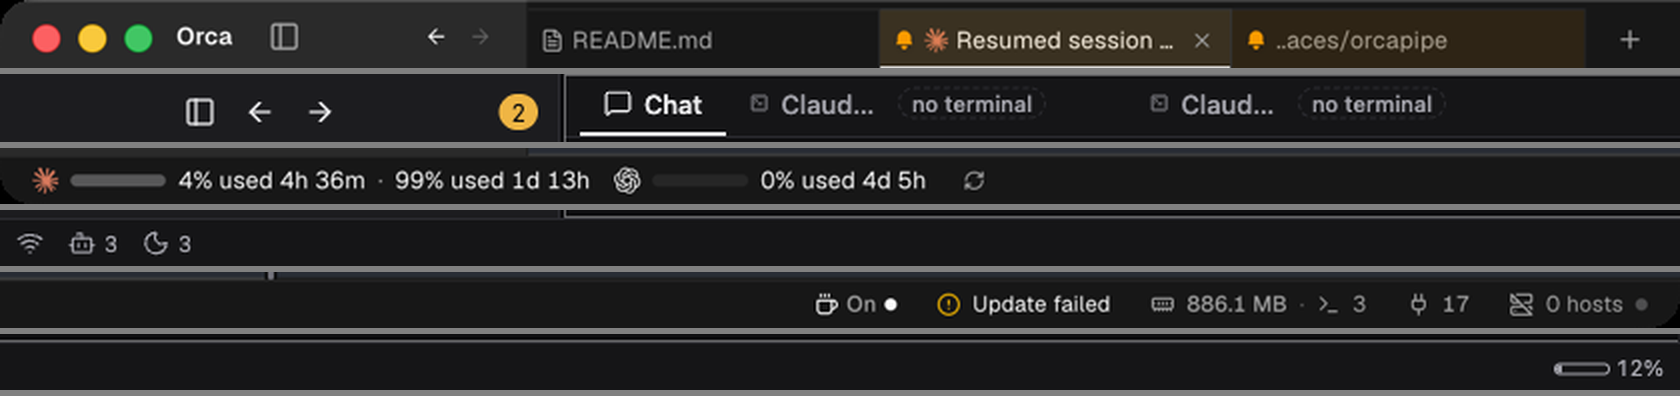
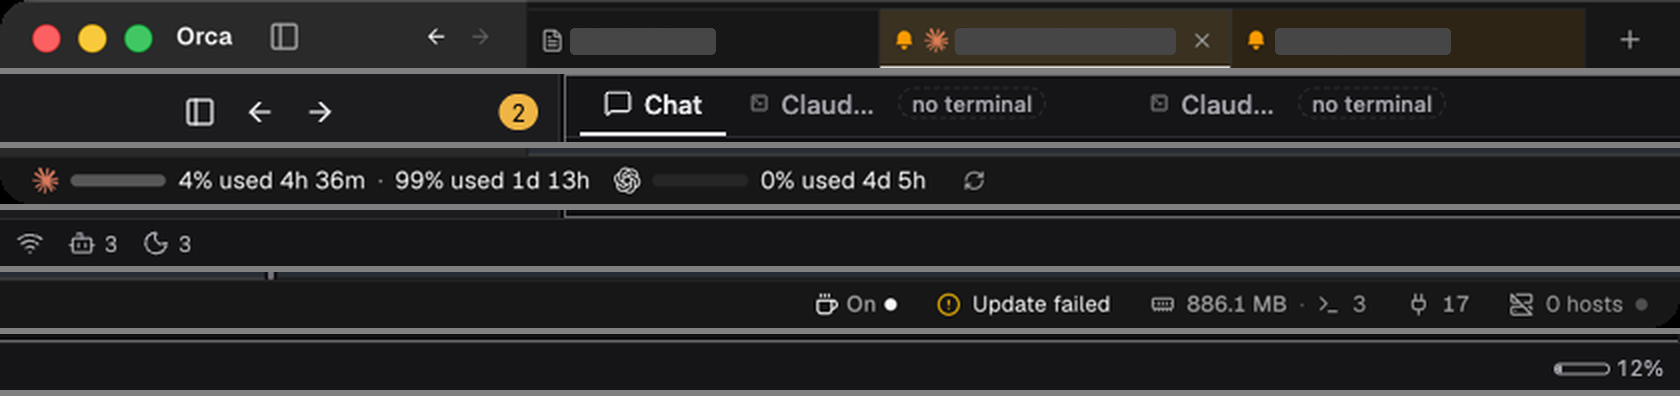
Visual proposal: drop orca-chrome.png, mask Orca names and tab titles and the inbox text, generic mock terminal, doc trimmed

Changed region(s): [[0.5571, 0.0606, 0.7119, 0.1515], [0.7429, 0.0606, 0.8667, 0.1515], [0.3405, 0.0606, 0.4333, 0.1515]]

diff --git a/docs/img/pc-visual/mock-main.html b/docs/img/pc-visual/mock-main.html
@@ -79,7 +79,7 @@ footer .bar u{position:absolute;inset:0 auto 0 0;background:var(--ok)}
       <div class="msg">Done as story T4153 for handline.pc: children T4151 and T4115 merge into it after PASS.</div>
       <div class="compose">Message pc.auditor…</div>
     </div>
-    <div class="pane term"># Runner Registration<br><br>Enter the name of the runner group…<br><br><span class="t">√ Runner successfully added</span><br><br>ci@runner:~/runner$ ls<br>bin &nbsp; config.sh &nbsp; env.sh &nbsp; run.sh</div>
+    <div class="pane term">$ ls<br>build &nbsp; src &nbsp; package.json &nbsp; README.md<br><br><span class="t">✓ 12 tests passed</span></div>
   </div>
 </main>
 <footer>

diff --git a/docs/pc-visual-proposal.md b/docs/pc-visual-proposal.md
@@ -2,7 +2,7 @@
 
 Story 10-4 (T4149, task T4150). Research and a proposal only; nothing is built. The question: can our PC app be as clean as Orca?
 
-Method. Orca 1.4.221 (the installed app) and the PC app (`apps/web` in `apps/electron`, main @67f4d5063, scratch home and test daemon, never the live daemon) were captured at the same size, 1673 x 1050 points. The scratch daemon is nearly empty (three agents, one task), so the screens show structure, not a busy day. The Orca pictures are cropped to its chrome (sidebar, tab strip, status bar); its content panes are not shown.
+Method. Orca 1.4.221 (the installed app) and the PC app (`apps/web` in `apps/electron`, main @67f4d5063, scratch home and test daemon, never the live daemon) were captured at the same size, 1673 x 1050 points. The scratch daemon is nearly empty (three agents, one task), so the screens show structure, not a busy day. The Orca pictures show only its chrome (sidebar, tab strip, status bar), with its project, branch and tab names masked.
 
 ## 1. Side by side
 
@@ -14,19 +14,19 @@ Top tab strip and bottom status bar (each pair: Orca above, ours below; left and
 
 ![Tab strip and status bar](img/pc-visual/cmp-bars.png)
 
-Our screens at the same size: [Inbox](img/pc-visual/01-home.png), [Tasks](img/pc-visual/02-tasks.png), [Task detail](img/pc-visual/03-task-detail.png), [Team](img/pc-visual/04-team.png), [Worktrees](img/pc-visual/05-worktrees.png), [Accounts](img/pc-visual/06-accounts.png), [Stats](img/pc-visual/07-stats.png), [agent Chat](img/pc-visual/08-chat.png). Orca's workspace without its content: [orca-chrome.png](img/pc-visual/orca-chrome.png).
+Our screens at the same size: [Inbox](img/pc-visual/01-home.png), [Tasks](img/pc-visual/02-tasks.png), [Task detail](img/pc-visual/03-task-detail.png), [Team](img/pc-visual/04-team.png), [Worktrees](img/pc-visual/05-worktrees.png), [Accounts](img/pc-visual/06-accounts.png), [Stats](img/pc-visual/07-stats.png), [agent Chat](img/pc-visual/08-chat.png).
 
 ## 2. Differences, ordered by how much each changes the feel
 
-1. **One sidebar that is the whole map (layout).** Orca: Search, Tasks, Automations, then Projects; under each project its worktrees as cards (name, branch, one status line, age), and the sessions under a worktree. You never leave it to find work. Ours: seven nav rows (Inbox, Tasks, Team, Worktrees, Accounts, Pair a phone, Stats) above a flat agent list; worktrees are a separate page and an agent row shows no project, branch or age. The nav block alone is 190 px of the 1050 before any work appears.
-2. **Workspaces instead of pages (layout).** Orca has one surface: the tab strip of the chosen worktree (chat, files, terminals, diff) with split panes. Ours is a set of pages (Team, Worktrees, Accounts, Stats, Tasks), each with a page title and its own box, and the agent view is a tab strip inside the main area (the capture shows "Claude Code, no terminal" twice, since fixed in T4162). Moving between "an agent" and "its worktree" and "its tasks" is three screens in ours, one in Orca.
-3. **The bottom bar says something (layout, density).** Orca: per-account usage with a bar, percent used and time to reset; a keep-awake switch; update state; memory; terminal and port counts; remote hosts. Ours: link icon, agent total, per-state counts (which repeat the sidebar) and one unlabeled percentage. Details in section 5.
-4. **Density and quiet rows (density).** Orca rows carry one dot, a name in medium weight and one grey second line. Ours carry up to six marks per agent row (state glyph, inbox count, task count, two gauges, a menu) and the name is bold. Orca's rows are about 60 px for a worktree card with two lines, ours 32 px for one line carrying more symbols. More symbols in less space is what reads as busy.
-5. **Boxes inside boxes (borders).** Ours: the Tasks table sits in a bordered panel next to a bordered detail panel; Team is a row of bordered cards; Inbox rows are bordered cards; the composer is a bordered box inside a column. Orca separates areas with one 1 px hairline (white at 7% alpha) and fills only the selected row. Section 4 gives the rule.
-6. **Chrome merged with the title bar (layout).** Orca's tab strip is the window's top bar (traffic lights, sidebar toggle, back/forward, tabs, +). Ours has a 38 px drag strip with the toggle and arrows over the sidebar, and a second strip for tabs: two bars where one would do.
-7. **Colour (colour).** Both are near-black neutral. Orca uses one warm accent, amber, for "needs you" (the bell on a worktree, the tab tint) and a brand glyph for the agent; status dots are small and few. Ours already has Okabe-Ito state hues (blue, amber, orange, green) next to glyphs; they are fine, but they appear on many rows at once and the amber badge sits in two places (the corner badge and the pills). Our tokens are close to Orca's (section 4), so the change is fewer colours at a time, not a new palette.
+1. **One sidebar that is the whole map (layout).** Orca: Search, Tasks, Automations, then Projects; under each project its worktrees as cards (name, branch, status line, age) and the sessions under them, so you never leave it to find work. Ours: seven nav rows (190 px of the 1050) above a flat agent list; worktrees are a separate page and an agent row shows no project, branch or age.
+2. **Workspaces instead of pages (layout).** Orca has one surface: the chosen worktree's tab strip (chat, files, terminals, diff) with split panes. Ours is a set of pages, each with a title and its own box; "an agent", "its worktree" and "its tasks" are three screens in ours, one in Orca.
+3. **The bottom bar says something (layout, density).** Orca's carries usage per account, update state, memory, ports and hosts; ours has agent counts that repeat the sidebar and one unlabeled percentage (section 5).
+4. **Density and quiet rows (density).** Orca rows carry one dot, a medium-weight name and one grey second line. Ours carry up to six marks per agent row (state glyph, inbox count, task count, two gauges, a menu) with a bold name. More symbols in less space reads as busy.
+5. **Boxes inside boxes (borders).** Ours: the Tasks table and its detail each sit in a bordered panel, Team is a row of bordered cards, Inbox rows and the composer are bordered. Orca separates areas with one 1 px hairline and fills only the selected row (rule in section 4).
+6. **Chrome merged with the title bar (layout).** Orca's tab strip is the window's top bar. Ours has a 38 px drag strip over the sidebar and a second strip for tabs: two bars where one would do.
+7. **Colour (colour).** Both are near-black neutral. Orca uses one warm accent, amber, for "needs you" and few small status dots. Our Okabe-Ito state hues are fine but appear on many rows at once, and amber sits in two places (corner badge and pills). The change is fewer colours at a time, not a new palette.
 8. **Type (type).** Orca: Geist, 13 px body, 12 px and 11 px for second lines, names at weight 500, monospace only for terminals and ids. Ours: Inter at the same sizes, names 500 in the token but several screens render them heavier, and monospace is used for times and owners in table rows. No size change is needed; weight and where mono is used.
-9. **Icons (icons).** Both use thin outline icons at 14 to 16 px. Orca uses few and puts a label next to each; ours has icon-only controls in chat and row headers that need a tooltip to read.
+9. **Icons (icons).** Both use thin outline icons; Orca labels each, ours has icon-only controls in chat and row headers that need a tooltip.
 10. **Empty states (empty states).** Orca: the sidebar holds the next step (Add project, +). Ours: "Pick an agent / Choose one in the list", "No accounts configured.", "No agents in the team" with no action beside them (screens 08, 04 and 06).
 
 ## 3. Orca's licence: what we may take
@@ -38,7 +38,7 @@ MIT lets us copy, modify and ship, on the one condition that the copyright and p
 - **Take with the notice:** component code and CSS (sidebar and worktree card, tab strip, status-bar cells, split-pane layout). Put the notice in a `THIRD_PARTY_NOTICES` file shipped with the app and mark copied files with a header comment.
 - **Take freely (ideas, not code):** the layout, the order of information, the row anatomy, the spacing scale and the colour values. Colour and size numbers are not copyrightable and Orca's neutrals are close to the stock shadcn/ui ones (also MIT).
 - **Not covered by this licence:** the Orca name and logo, and the Geist font (SIL Open Font License from Vercel; it can be bundled, with its licence text). We should keep our own mark and Inter, or add Geist deliberately.
-- **Recommendation:** write our own components to the proposal below and copy code only where it saves real work (split panes are the likely case), each with the notice. Our stack (React, Tailwind) is close enough that the cost is low either way.
+- **Recommendation:** write our own components to section 4 and copy code (with the notice) only where it saves real work, likely split panes.
 
 ## 4. Proposed style
 
@@ -80,9 +80,7 @@ The mock moves Worktrees and Accounts out of the nav. Accounts becomes part of S
 
 ## 5. The bottom status bar
 
-What Orca shows, left to right: per account, a provider mark, a usage bar, "N% used" and time to reset; a refresh button; a keep-awake switch ("On"); update state ("Update failed" in a warning colour); memory in MB with terminal count; open ports; remote hosts. Everything is a labeled cell with a tooltip, and warnings use colour.
-
-What ours shows: daemon link (icon only), agents total, agents per state (3, 3 in the scratch run), and the usage gauge with one unlabeled percentage (12%). The agent counts repeat the sidebar and the percentage has no name.
+Orca's bar, left to right: per account a provider mark, usage bar, "N% used" and time to reset; refresh; keep-awake switch; update state (warning colour on failure); memory with terminal count; ports; remote hosts. Every cell is labeled and has a tooltip. Ours has the daemon link icon, the agent total and per-state counts (repeating the sidebar) and one unlabeled percentage.
 
 Proposed set (how roomy or short usage is overall, and what the system is doing), left group usage, right group system:
 
@@ -96,16 +94,15 @@ Proposed set (how roomy or short usage is overall, and what the system is doing)
 | Update | `update ok` or `update failed` | amber on failure, as Orca |
 | Memory | `886 MB` | the daemon's, optional |
 
-Removed: the agent total and the per-state counts. Agents are already visible in the sidebar.
+Removed: the agent total and per-state counts.
 
 Open items that need a daemon method, not a style: a usage runway figure (reset time and burn rate per account) and a queue and blocked count. Disk free and update state exist today as inbox notices.
 
 ## 6. What to decide
 
-1. Take the style table in section 4 (mostly a re-tune of existing tokens).
-2. Take the sidebar structure of section 2, item 1, and with it moving Worktrees and Accounts out of the nav.
+1. Take the style table in section 4 (a re-tune of existing tokens).
+2. Take the sidebar structure of section 2, item 1, and move Worktrees and Accounts out of the nav.
 3. Take the status-bar set of section 5.
-4. Copy Orca code (with the notice) or write our own? Recommended: own, copy only split panes.
-5. Keep Inter or move to Geist.
+4. Copy Orca code (recommended: own, copy only split panes) and keep Inter or move to Geist.
 
 Section 4 and the mock feed 10-2 (T4136) together with the menu proposal (T4001).
